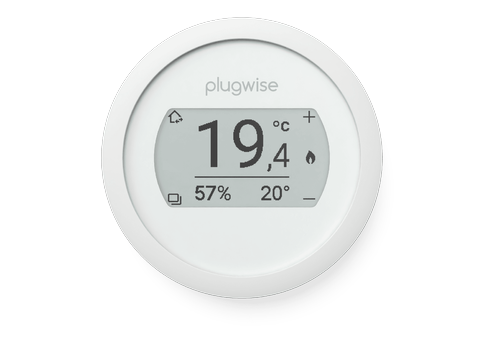
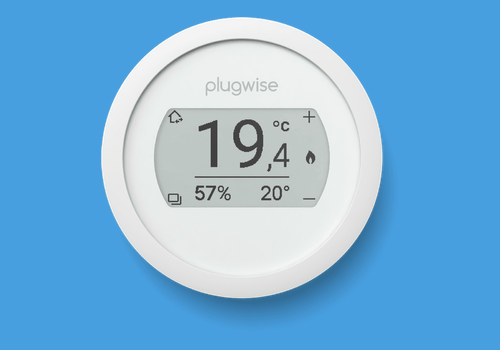
Use a blue background (#489fdf) for the app and driver images
Claude-Session: https://claude.ai/code/session_01T3QfEcNbtv8naocC3NaHJA

diff --git a/README.md b/README.md
@@ -56,7 +56,7 @@ homey app validate
 ## Changelog
 
 ### 1.0.2 (2026-11-27)
-- Use the Emma Wired product photo for the app images (250x175, 500x350, 1000x700) and the driver images (75x75, 500x500, 1000x1000)
+- Use the Emma Wired product photo on a blue background (#489fdf, the brand color of Plugwise's own Homey app) for the app images (250x175, 500x350, 1000x700) and the driver images (75x75, 500x500, 1000x1000)
 - Bump version to 1.0.2 (`.homeycompose/app.json`, `package.json`, `package-lock.json`) and add a 1.0.2 entry to `.homeychangelog.json`
 
 ### 1.0.1 (2026-11-27)
